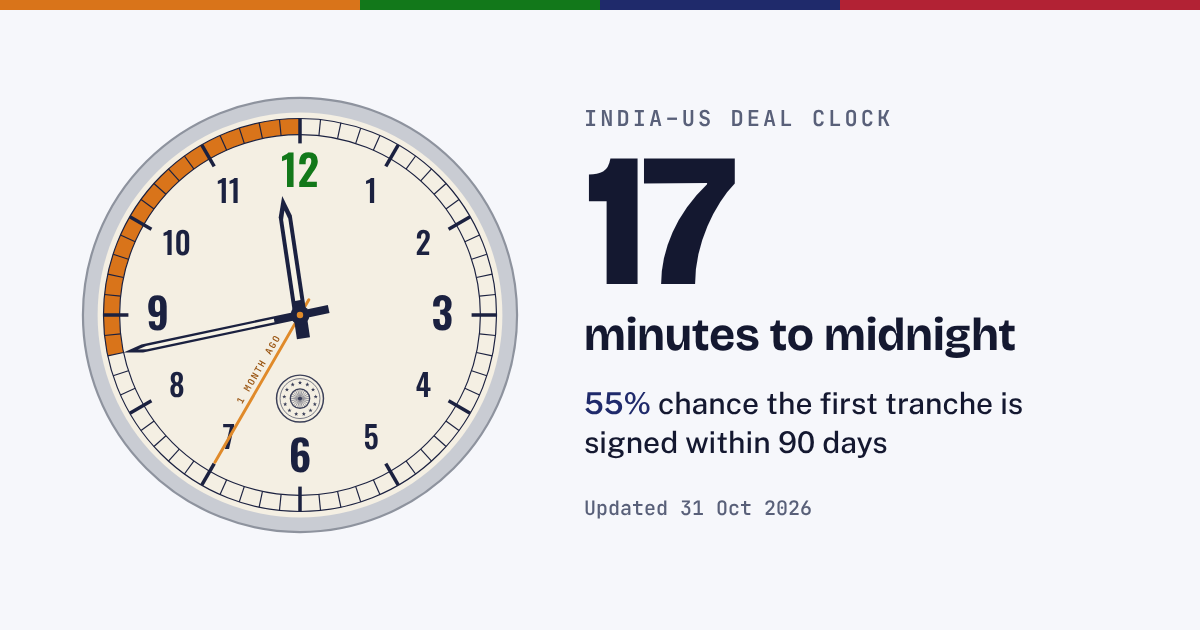
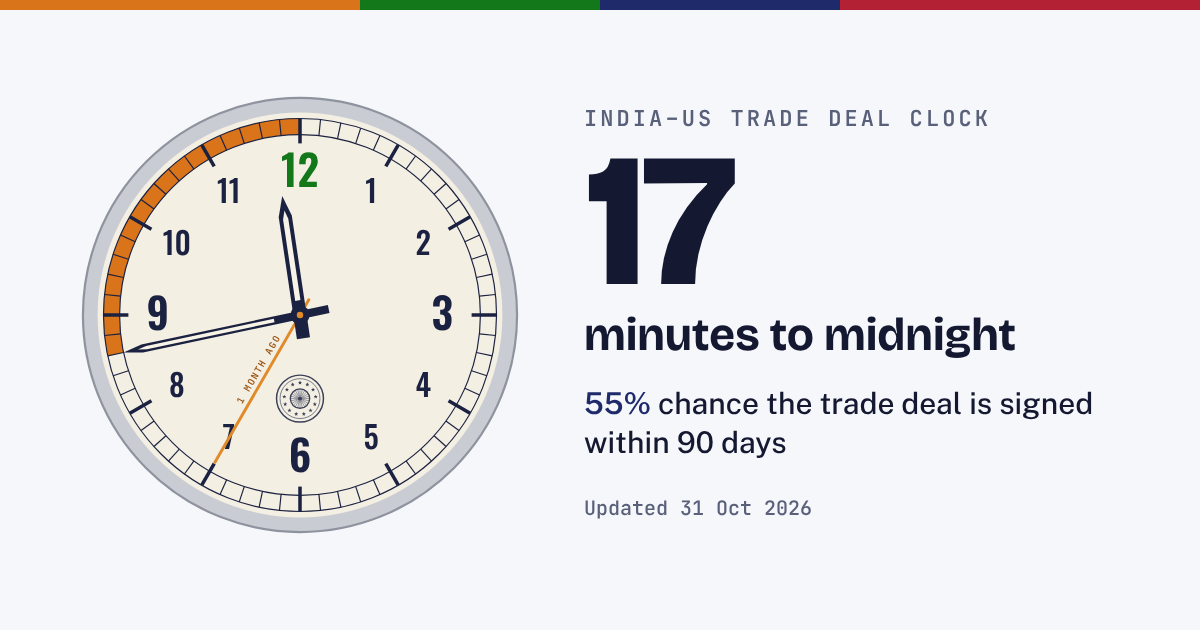
Rename to India–US Trade Deal Clock and add a clear masthead
Claude-Session: https://claude.ai/code/session_01PxfPfpGj3rh6REXYZBc3tH

diff --git a/index.html b/index.html
@@ -3,7 +3,7 @@
 <head>
 <meta charset="utf-8">
 <meta name="viewport" content="width=device-width,initial-scale=1,viewport-fit=cover">
-<title>India–US Deal Clock</title>
+<title>India–US Trade Deal Clock</title>
 <link rel="canonical" href="https://yuvrajkhetan.github.io/india-us-deal-clock/">
 <meta name="theme-color" content="#F6F7FB" media="(prefers-color-scheme: light)">
 <meta name="theme-color" content="#0C0F22" media="(prefers-color-scheme: dark)">
@@ -14,8 +14,8 @@
 <!-- share:start -->
 <meta name="description" content="55% chance the first tranche of the India–US trade deal is signed within 90 days. Updated 31 Oct 2026.">
 <meta property="og:type" content="website">
-<meta property="og:site_name" content="India–US Deal Clock">
-<meta property="og:title" content="India–US Deal Clock: 17 minutes to midnight">
+<meta property="og:site_name" content="India–US Trade Deal Clock">
+<meta property="og:title" content="India–US Trade Deal Clock: 17 minutes to midnight">
 <meta property="og:description" content="55% chance the first tranche of the India–US trade deal is signed within 90 days. Updated 31 Oct 2026.">
 <meta property="og:url" content="https://yuvrajkhetan.github.io/india-us-deal-clock/">
 <meta property="og:image" content="https://yuvrajkhetan.github.io/india-us-deal-clock/og.png?v=20261031">
@@ -23,11 +23,11 @@
 <meta property="og:image:height" content="630">
 <meta property="og:image:alt" content="Clock face showing 17 minutes to midnight">
 <meta name="twitter:card" content="summary_large_image">
-<meta name="twitter:title" content="India–US Deal Clock: 17 minutes to midnight">
+<meta name="twitter:title" content="India–US Trade Deal Clock: 17 minutes to midnight">
 <meta name="twitter:description" content="55% chance the first tranche of the India–US trade deal is signed within 90 days. Updated 31 Oct 2026.">
 <meta name="twitter:image" content="https://yuvrajkhetan.github.io/india-us-deal-clock/og.png?v=20261031">
 <!-- share:end -->
-<script type="application/ld+json">{"@context": "https://schema.org", "@type": "WebPage", "name": "India–US Deal Clock", "url": "https://yuvrajkhetan.github.io/india-us-deal-clock/", "description": "A rule-based, fully sourced estimate of how close India and the US are to signing the first tranche of their Bilateral Trade Agreement, shown as minutes to midnight.", "inLanguage": "en", "dateModified": "2026-10-31"}</script>
+<script type="application/ld+json">{"@context": "https://schema.org", "@type": "WebPage", "name": "India–US Trade Deal Clock", "url": "https://yuvrajkhetan.github.io/india-us-deal-clock/", "description": "A rule-based, fully sourced estimate of how close India and the US are to signing the first tranche of their Bilateral Trade Agreement, shown as minutes to midnight.", "inLanguage": "en", "dateModified": "2026-10-31"}</script>
 <style>
 @font-face{font-family:"Bricolage Grotesque";src:url(fonts/BricolageGrotesque.woff2) format("woff2");font-weight:500 800;font-display:swap}
 @font-face{font-family:"Public Sans";src:url(fonts/PublicSans.woff2) format("woff2");font-weight:400 600;font-display:swap}
@@ -75,8 +75,10 @@ section{display:grid;gap:20px}
 .section-head{display:grid;gap:6px}
 .section-head p{color:var(--muted);max-width:62ch}
 
-header{display:flex;flex-wrap:wrap;justify-content:space-between;align-items:baseline;gap:8px 24px}
-header .brand{font:700 1.05rem/1 var(--f-display)}
+header{display:flex;flex-wrap:wrap;justify-content:space-between;align-items:flex-end;gap:8px 24px;padding-bottom:20px;border-bottom:1px solid var(--line)}
+header .masthead{display:grid;gap:8px;min-width:0}
+header .title{font:800 clamp(1.75rem,4.6vw,2.6rem)/1.05 var(--f-display);letter-spacing:-.02em}
+header .deck{color:var(--muted);max-width:60ch;font-size:1.02rem}
 header .asof{font:400 .82rem/1.3 var(--f-mono);color:var(--muted)}
 
 /* Hero */
@@ -197,15 +199,18 @@ footer{font-size:.82rem;color:var(--muted);display:grid;gap:6px;border-top:1px s
 <div class="flagbar" aria-hidden="true"><i></i><i></i><i></i><i></i></div>
 <div class="wrap">
   <header>
-    <span class="brand">India–US Deal Clock</span>
+    <div class="masthead">
+      <h1 class="title">India–US Trade Deal Clock</h1>
+      <p class="deck">How close are India and the US to signing their trade deal? A weekly estimate from public statements, talks and obstacles.</p>
+    </div>
     <span class="asof" id="asof"></span>
   </header>
 
   <section class="hero" aria-labelledby="headline">
     <div class="watch" id="watch" role="img"></div>
     <div class="headline">
-      <div class="eyebrow">How close is the first tranche to being signed?</div>
-      <h1 class="big num" id="headline"></h1>
+      <div class="eyebrow">How close is the India–US trade deal to being signed?</div>
+      <p class="big num" id="headline"></p>
       <div class="odds" id="odds"></div>
       <div class="deltas" id="deltas"></div>
       <p class="midnight" id="midnight"></p>
@@ -1114,9 +1119,9 @@ if (location.hash === '#og'){
   card.id = 'ogcard';
   card.innerHTML = '<div class="flagbar" aria-hidden="true"><i></i><i></i><i></i><i></i></div>' +
     '<div class="og-watch">' + document.querySelector('#watch svg').outerHTML + '</div>' +
-    '<div class="og-text"><div class="og-eyebrow">India–US Deal Clock</div>' +
+    '<div class="og-text"><div class="og-eyebrow">India–US Trade Deal Clock</div>' +
     '<div class="og-big">' + left + '</div><div class="og-unit">' + (left === 1 ? 'minute' : 'minutes') + ' to midnight</div>' +
-    '<div class="og-odds"><b>' + window.__share.p90 + '%</b> chance the first tranche is signed within 90 days</div>' +
+    '<div class="og-odds"><b>' + window.__share.p90 + '%</b> chance the trade deal is signed within 90 days</div>' +
     '<div class="og-meta">Updated ' + fmt(asOf) + '</div></div>';
   document.body.appendChild(card);
 }

diff --git a/scripts/build_share.py b/scripts/build_share.py
@@ -55,7 +55,7 @@ def render():
 def write_tags(share):
     minutes = share["minutes"]
     unit = "minute" if minutes == 1 else "minutes"
-    title = f"India–US Deal Clock: {minutes} {unit} to midnight"
+    title = f"India–US Trade Deal Clock: {minutes} {unit} to midnight"
     desc = (f"{share['p90']}% chance the first tranche of the India–US trade deal "
             f"is signed within 90 days. Updated {share['asOfText']}.")
     version = share["asOf"].replace("-", "")
@@ -65,7 +65,7 @@ def write_tags(share):
         "<!-- share:start -->",
         f'<meta name="description" content="{e(desc)}">',
         '<meta property="og:type" content="website">',
-        '<meta property="og:site_name" content="India–US Deal Clock">',
+        '<meta property="og:site_name" content="India–US Trade Deal Clock">',
         f'<meta property="og:title" content="{e(title)}">',
         f'<meta property="og:description" content="{e(desc)}">',
         f'<meta property="og:url" content="{SITE}">',

diff --git a/README.md b/README.md
@@ -1,4 +1,4 @@
-# India–US Deal Clock
+# India–US Trade Deal Clock
 
 A Doomsday-Clock-style estimate of how close India and the US are to signing the first tranche of their Bilateral Trade Agreement.
 
